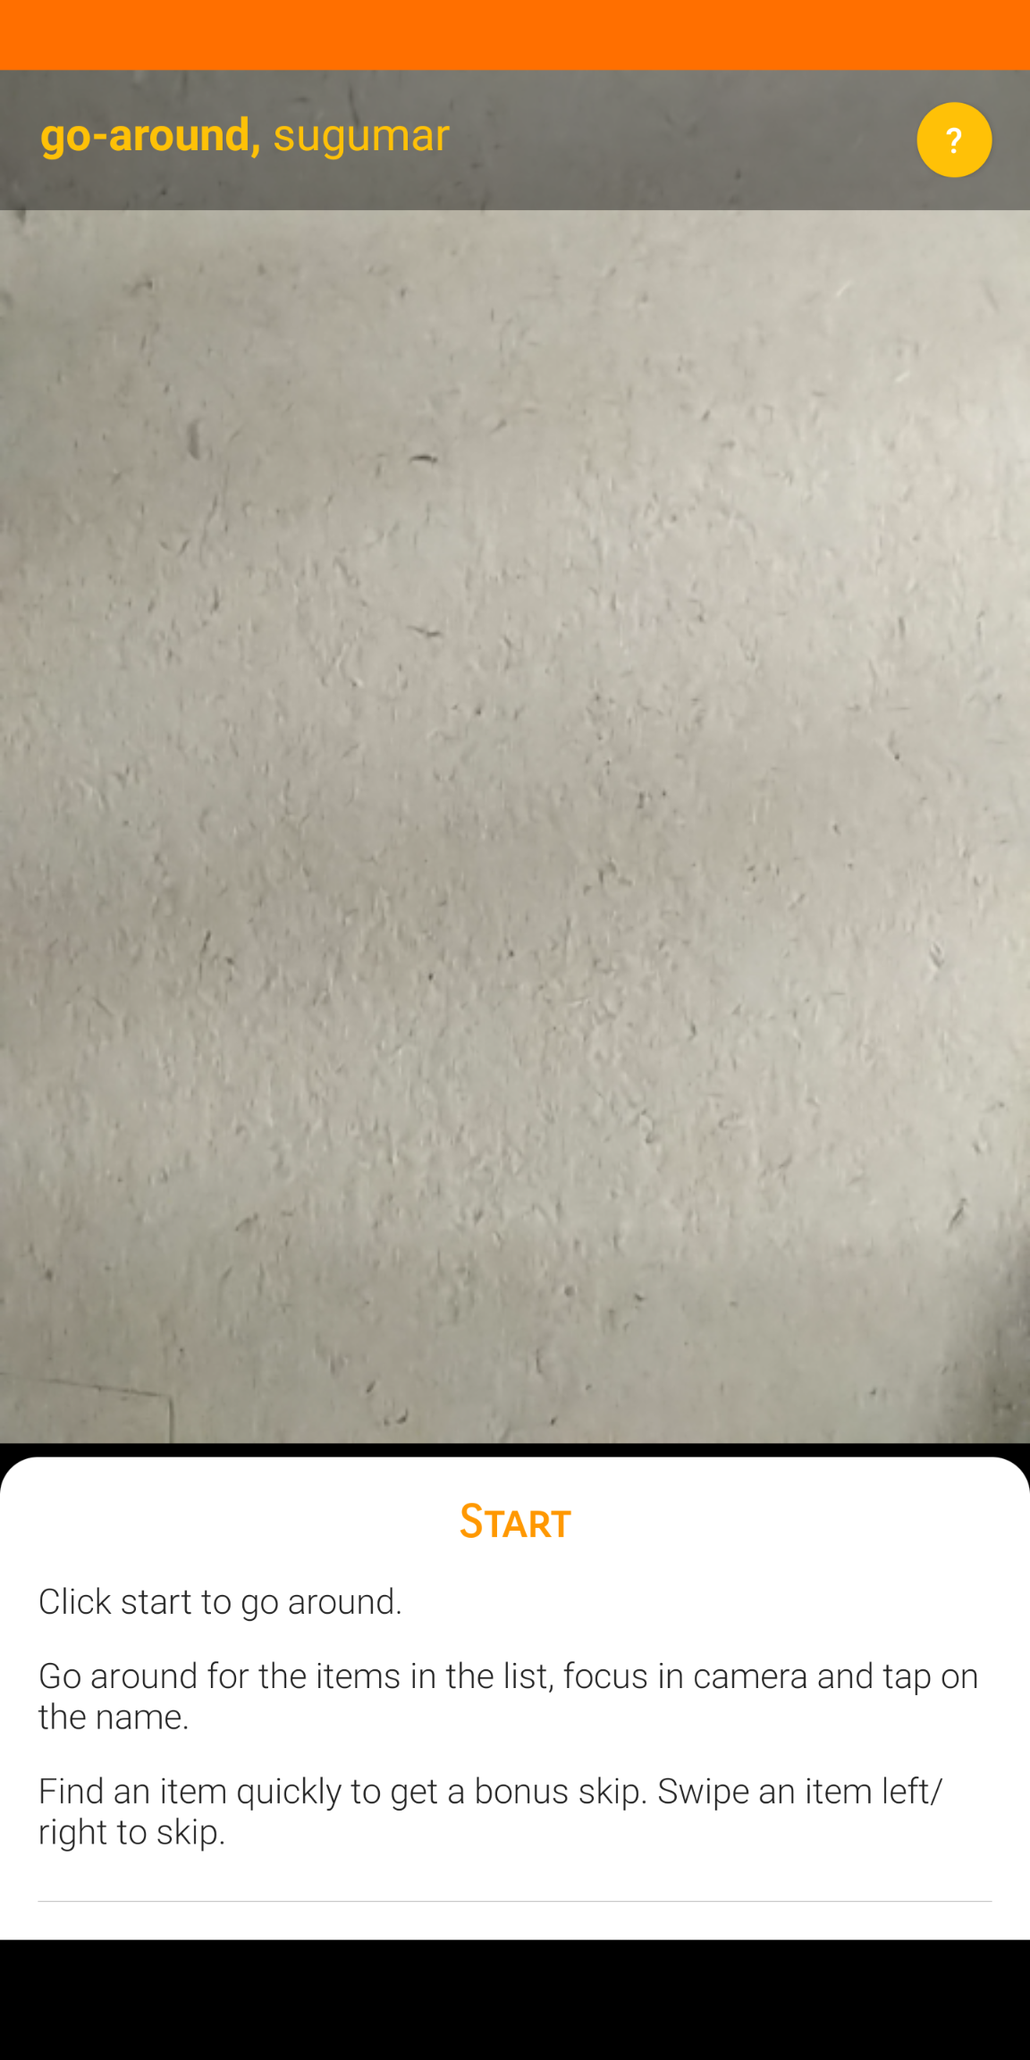
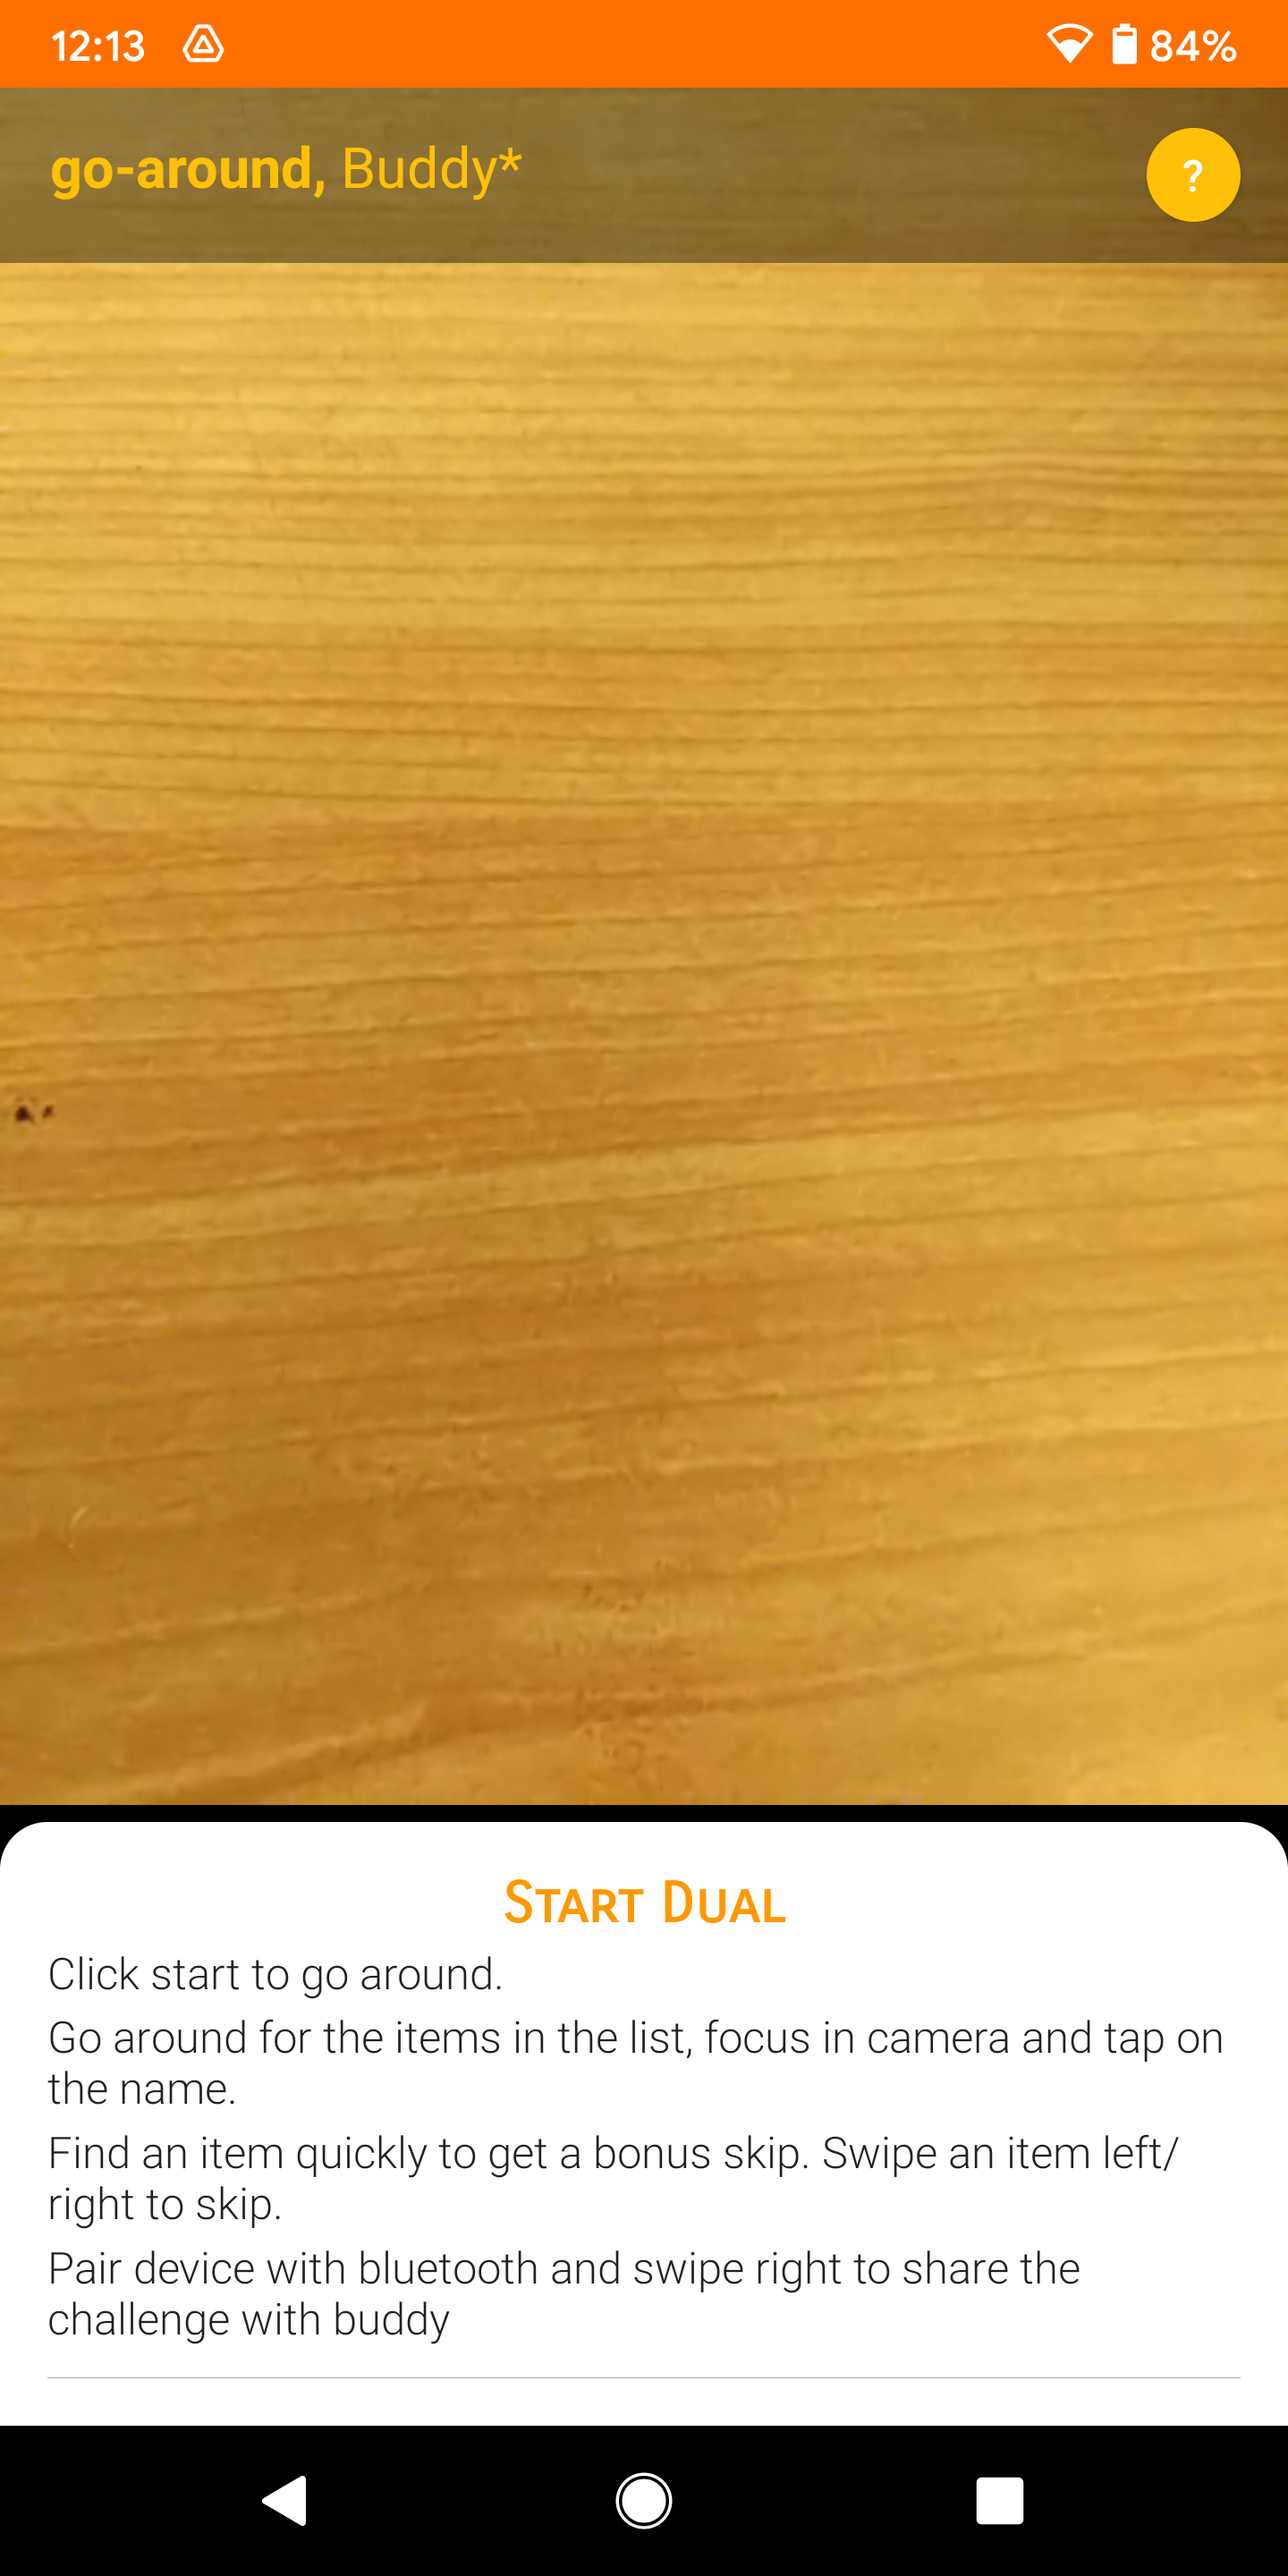
1.4 version updates

diff --git a/README.md b/README.md
@@ -18,7 +18,7 @@ How to play?
 - Find the items in the list, focus on the camera and tap on top of the name 
 - Swipe up to see what is happening in the background. For eg., While you capture the laptop, the app may see that as computer keyboard due to the visible area. So adjust your angle and capture it again. 
 
-Look for more play options, environment wise list and multi player options in the future.
+Look for more play options in the future.
 
 # How can it be done?
 This can be achieved with,
@@ -45,6 +45,12 @@ Auto bubble up to hint if you have captured something, but the game is seeing th
 
 # On playstore
 https://play.google.com/store/apps/details?id=tech.plugndo.goaround
+
+# v1.4 [Publishing to playstore]
+- See a nice advice whenever you go around, adviceslip api integrated.
+- Play with your buddy, Go dual
+  - Pair your mobile with bluetooth
+  - Swipe right to share the challenge to your buddy
 
 # v1.3.1
 - Tech debts and UI improvements
